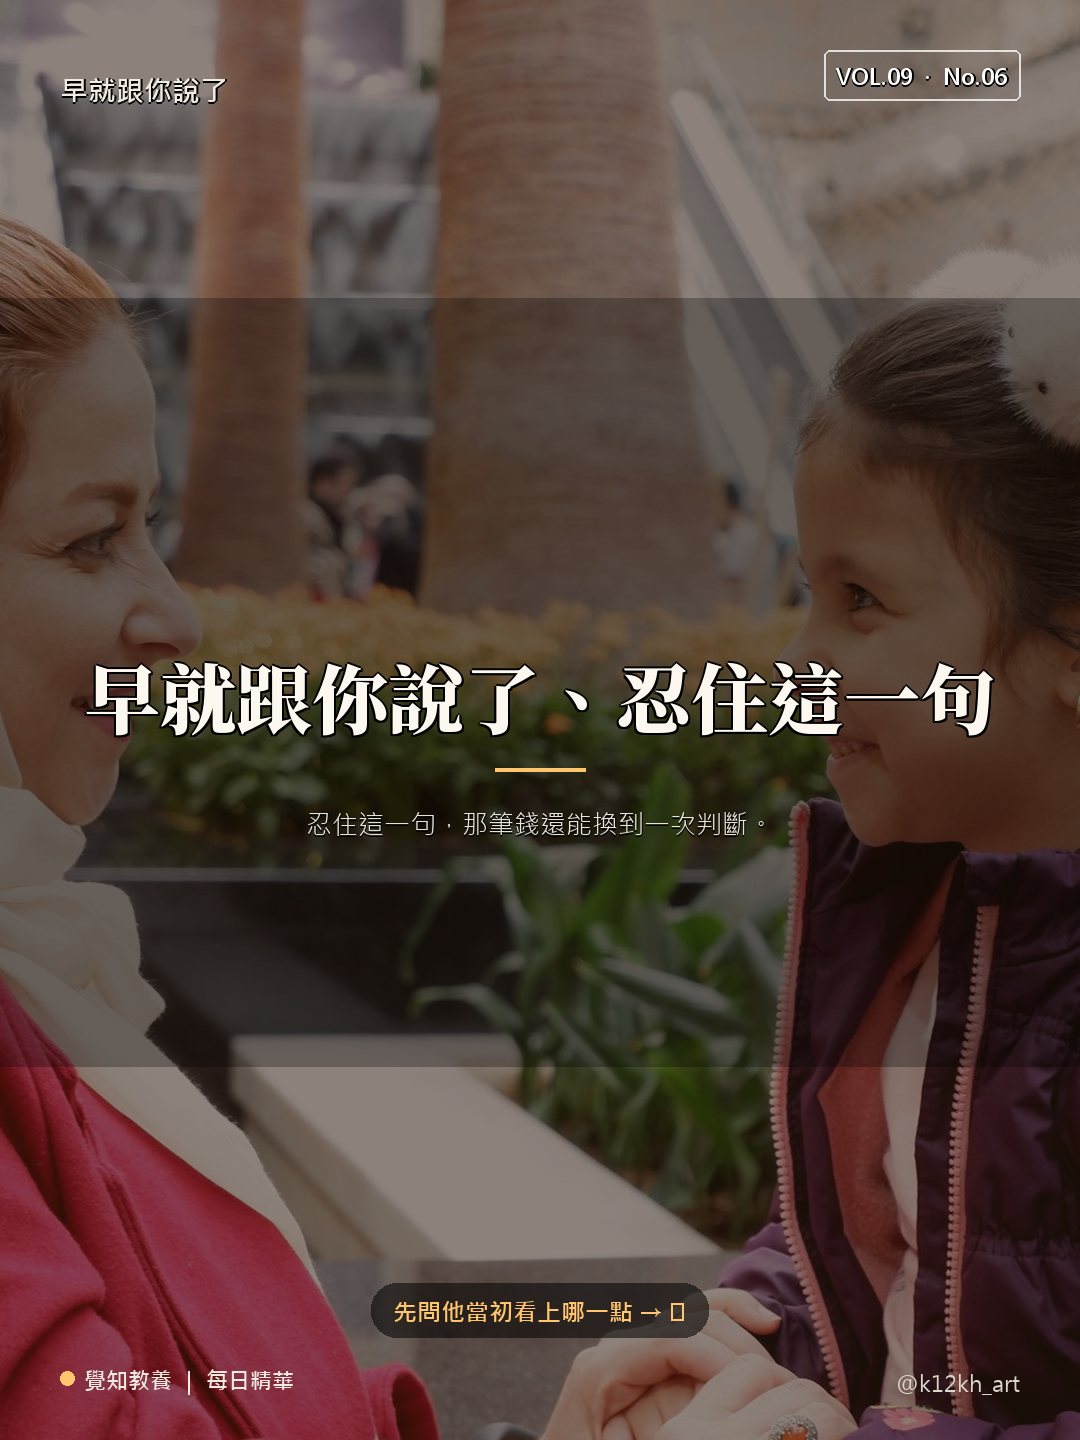
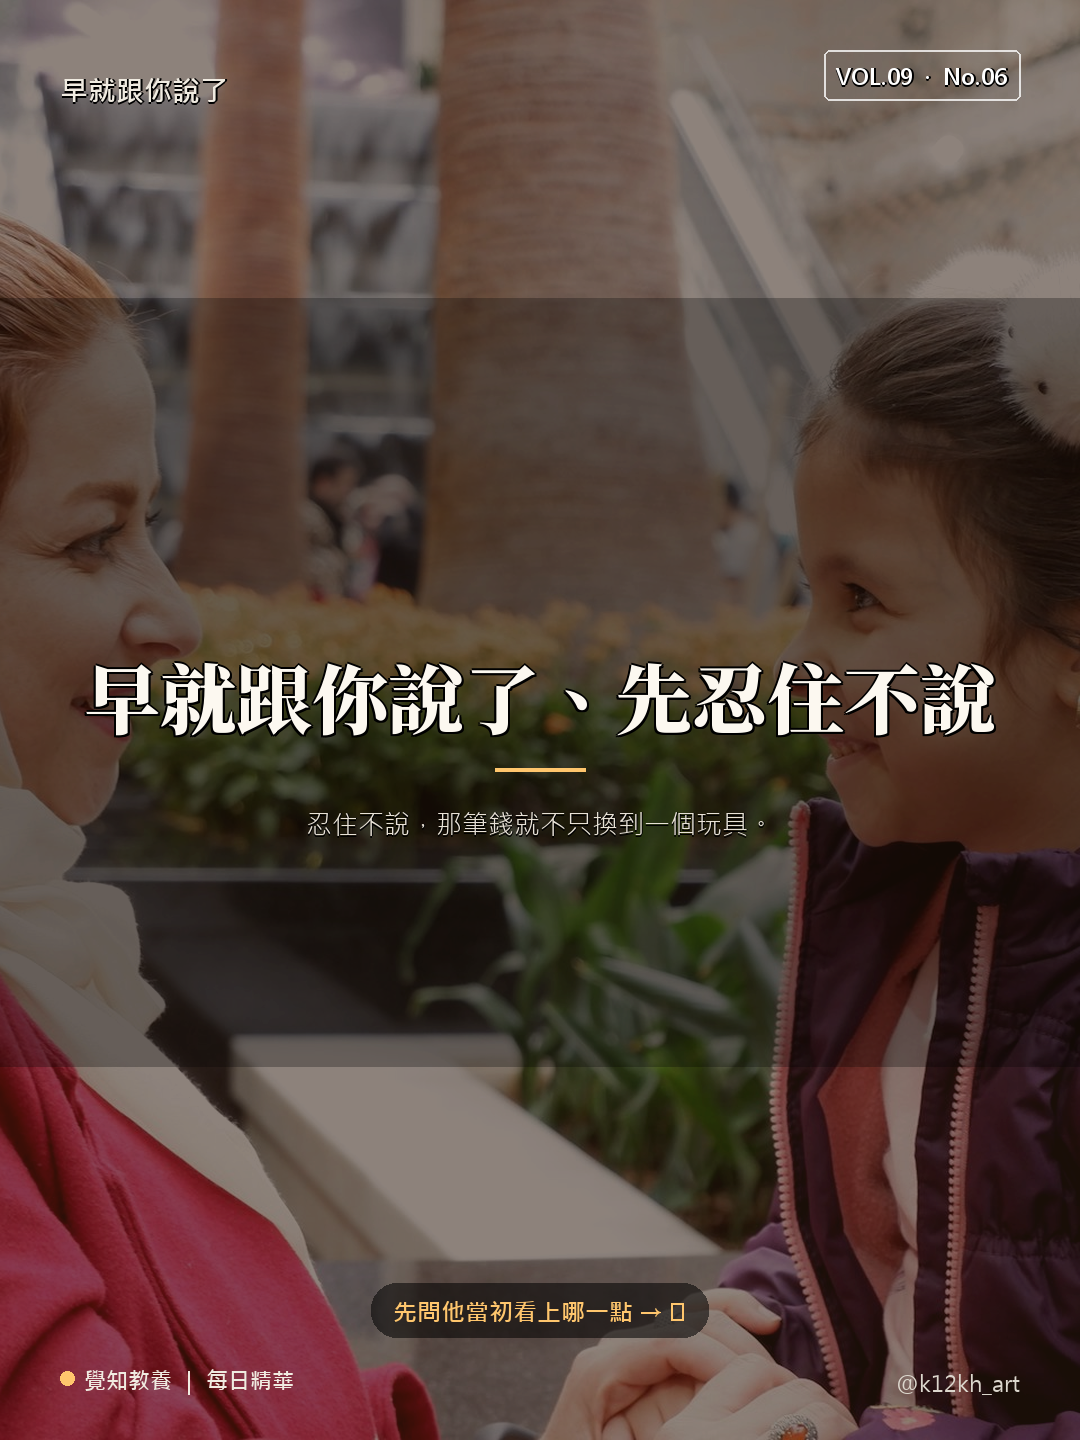
auto: dailynews update 2026-09-06 16:36 TW

Changed region(s): [[0.55, 0.4375, 0.9167, 0.5312], [0.3361, 0.5625, 0.55, 0.5938], [0.6111, 0.5625, 0.7028, 0.5938]]

diff --git a/2026-09/parenting_essence_2026-09-06.html b/2026-09/parenting_essence_2026-09-06.html
@@ -4,15 +4,15 @@
   <meta charset="utf-8">
   <meta name="viewport" content="width=device-width, initial-scale=1.0">
   <title>孩子拿自己存了三個月的零用錢買那個玩具，玩兩次就放在旁邊了 ｜ 覺知教養．每日精華</title>
-  <meta name="description" content="覺知．開智班的阿泰是小四，他存了三個多月的零用錢，在文具店買了一個轉蛋玩具。回家玩兩次就放在旁邊，說這個沒有想像中好玩。這種時候大人最順口的一句是「早就跟你說了」——這句話一講，那筆錢就只換到一個玩具。忍住這一句，那筆錢還能換到一次判斷：他會自己回想當初是看上它哪一點，下次要先確認什麼。這一拍在 SEL（社會情緒學習）裡叫負責任的決策：自己決定、自己承擔結果，然後把這一次的判斷記下來。文末給家長東西買回來以後可以問的兩句話。">
+  <meta name="description" content="覺知．開智班的阿泰是小四，他存了三個多月的零用錢，在文具店買了一個轉蛋玩具。回家玩兩次就放在旁邊，說這個沒有想像中好玩。這種時候大人最順口的一句是「早就跟你說了」——這句話一講，那筆錢就只換到一個玩具。忍住不說，那筆錢就不只換到一個玩具：他會自己回想當初是看上它哪一點，下次要先確認什麼。這一拍在 SEL（社會情緒學習）裡叫負責任的決策：自己決定、自己承擔結果，然後把這一次的判斷記下來。文末給家長東西買回來以後可以問的兩句話。">
   <meta name="keywords" content="負責任的決策,零用錢,金錢管理,國小中高年級,開智班,自己做決定,覺知教養,覺知素養,SEL,社會情緒學習,非認知能力,K12覺知素養教育學苑">
-  <meta name="share-title" content="早就跟你說了，忍住這一句">
+  <meta name="share-title" content="早就跟你說了，先忍住不說">
   <meta name="share-tint" content="warm-amber">
   <meta name="share-palette" content="ivory">
   <meta name="hero-title-pos" content="center">
   <meta name="share-teaser" content="早就跟你說了">
-  <meta name="share-explainer" content="忍住這一句，那筆錢還能換到一次判斷。">
-  <meta name="share-highlight" content="一次判斷">
+  <meta name="share-explainer" content="忍住不說，那筆錢就不只換到一個玩具。">
+  <meta name="share-highlight" content="不只">
   <meta name="share-cta" content="先問他當初看上哪一點 →">
   <style>
 /* base placeholder — post_essence.py 會注入 v13 完整設計於此 */
@@ -2733,7 +2733,7 @@ body .body section {
 <!-- Open Graph -->
 <meta property="og:type" content="article">
 <meta property="og:title" content="孩子拿自己存了三個月的零用錢買那個玩具，玩兩次就放在旁邊了">
-<meta property="og:description" content="覺知．開智班的阿泰是小四，他存了三個多月的零用錢，在文具店買了一個轉蛋玩具。回家玩兩次就放在旁邊，說這個沒有想像中好玩。這種時候大人最順口的一句是「早就跟你說了」——這句話一講，那筆錢就只換到一個玩具。忍住這一句，那筆錢還能換到一次判斷：他會自己回想當初是看上它哪一點，下次要先確認什麼。這一拍在 SEL（社會情緒學習）裡叫負責任的決策：自己決定、自己承擔結果，然後把這一次的判斷記下來。文末給家長東西買回來以後可以問的兩句話。">
+<meta property="og:description" content="覺知．開智班的阿泰是小四，他存了三個多月的零用錢，在文具店買了一個轉蛋玩具。回家玩兩次就放在旁邊，說這個沒有想像中好玩。這種時候大人最順口的一句是「早就跟你說了」——這句話一講，那筆錢就只換到一個玩具。忍住不說，那筆錢就不只換到一個玩具：他會自己回想當初是看上它哪一點，下次要先確認什麼。這一拍在 SEL（社會情緒學習）裡叫負責任的決策：自己決定、自己承擔結果，然後把這一次的判斷記下來。文末給家長東西買回來以後可以問的兩句話。">
 <meta property="og:image" content="https://zway-education.github.io/education-dailynews/2026-09/parenting_essence_2026-09-06_share.png">
 <meta property="og:url" content="https://zway-education.github.io/education-dailynews/2026-09/parenting_essence_2026-09-06.html">
 <meta property="og:site_name" content="K12 覺知素養教育學苑">
@@ -2745,7 +2745,7 @@ body .body section {
 <!-- Twitter Card -->
 <meta name="twitter:card" content="summary_large_image">
 <meta name="twitter:title" content="孩子拿自己存了三個月的零用錢買那個玩具，玩兩次就放在旁邊了">
-<meta name="twitter:description" content="覺知．開智班的阿泰是小四，他存了三個多月的零用錢，在文具店買了一個轉蛋玩具。回家玩兩次就放在旁邊，說這個沒有想像中好玩。這種時候大人最順口的一句是「早就跟你說了」——這句話一講，那筆錢就只換到一個玩具。忍住這一句，那筆錢還能換到一次判斷：他會自己回想當初是看上它哪一點，下次要先確認什麼。這一拍在 SEL（社會情緒學習）裡叫負責任的決策：自己決定、自己承擔結果，然後把這一次的判斷記下來。文末給家長東西買回來以後可以問的兩句話。">
+<meta name="twitter:description" content="覺知．開智班的阿泰是小四，他存了三個多月的零用錢，在文具店買了一個轉蛋玩具。回家玩兩次就放在旁邊，說這個沒有想像中好玩。這種時候大人最順口的一句是「早就跟你說了」——這句話一講，那筆錢就只換到一個玩具。忍住不說，那筆錢就不只換到一個玩具：他會自己回想當初是看上它哪一點，下次要先確認什麼。這一拍在 SEL（社會情緒學習）裡叫負責任的決策：自己決定、自己承擔結果，然後把這一次的判斷記下來。文末給家長東西買回來以後可以問的兩句話。">
 <meta name="twitter:image" content="https://zway-education.github.io/education-dailynews/2026-09/parenting_essence_2026-09-06_share.png">
 
 <!-- Article Schema -->
@@ -2754,7 +2754,7 @@ body .body section {
   "@context": "https://schema.org",
   "@type": "Article",
   "headline": "孩子拿自己存了三個月的零用錢買那個玩具，玩兩次就放在旁邊了",
-  "description": "覺知．開智班的阿泰是小四，他存了三個多月的零用錢，在文具店買了一個轉蛋玩具。回家玩兩次就放在旁邊，說這個沒有想像中好玩。這種時候大人最順口的一句是「早就跟你說了」——這句話一講，那筆錢就只換到一個玩具。忍住這一句，那筆錢還能換到一次判斷：他會自己回想當初是看上它哪一點，下次要先確認什麼。這一拍在 SEL（社會情緒學習）裡叫負責任的決策：自己決定、自己承擔結果，然後把這一次的判斷記下來。文末給家長東西買回來以後可以問的兩句話。",
+  "description": "覺知．開智班的阿泰是小四，他存了三個多月的零用錢，在文具店買了一個轉蛋玩具。回家玩兩次就放在旁邊，說這個沒有想像中好玩。這種時候大人最順口的一句是「早就跟你說了」——這句話一講，那筆錢就只換到一個玩具。忍住不說，那筆錢就不只換到一個玩具：他會自己回想當初是看上它哪一點，下次要先確認什麼。這一拍在 SEL（社會情緒學習）裡叫負責任的決策：自己決定、自己承擔結果，然後把這一次的判斷記下來。文末給家長東西買回來以後可以問的兩句話。",
   "image": [
     "https://zway-education.github.io/education-dailynews/2026-09/parenting_essence_2026-09-06_share.png"
   ],
@@ -2819,7 +2819,7 @@ body .body section {
       <p><strong>這句話一說完，那一百八十塊就只換到一個玩具。</strong>孩子付了錢，也付了一次失望，但那次失望沒有變成他自己的東西——因為結論是大人先講<span style="white-space:nowrap">完的。</span></p>
       <p>我們常說要讓孩子從錯誤裡學到東西。可是「學到東西」這件事有一個條件：<strong>結論要由他自己講。</strong>大人先把結論講完，孩子就沒有事情要做了，他只剩下承認或<span style="white-space:nowrap">反駁。</span></p>
       <p>那個玩具本身其實已經把話講完了——他花了三個多月的錢，換到一隻重複的。這件事不需要任何人再補一句，孩子比誰都<span style="white-space:nowrap">清楚。</span></p>
-      <p>換一種做法：<strong>忍住這一句，那筆錢還能換到<span style="white-space:nowrap">一次判斷。</span></strong></p>
+      <p>換一種做法：<strong>忍住不說，那筆錢就不只換到一個玩具</strong>，還換到一次機會——讓他自己把當初的判斷想<span style="white-space:nowrap">一遍。</span></p>
     </section>
 
     <section>
